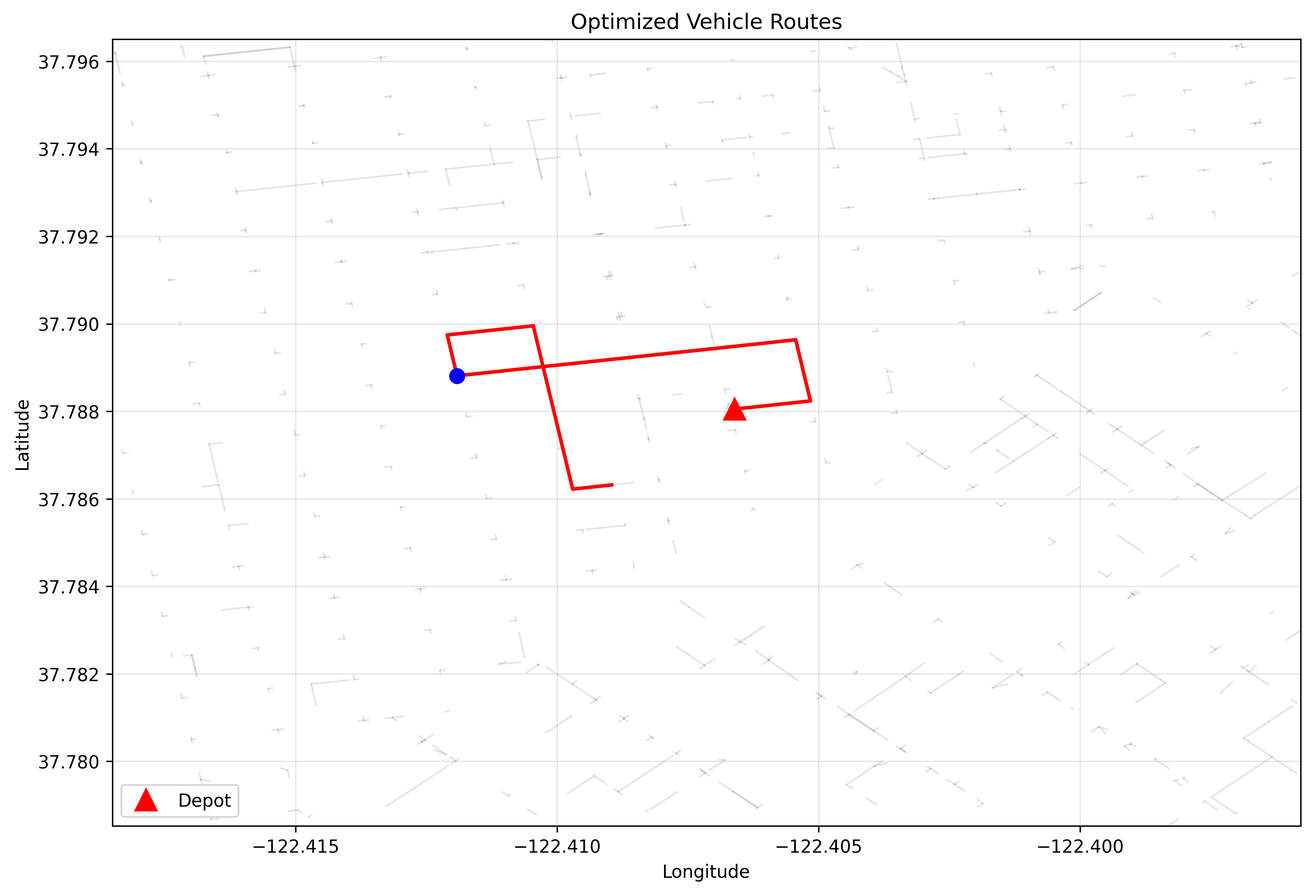
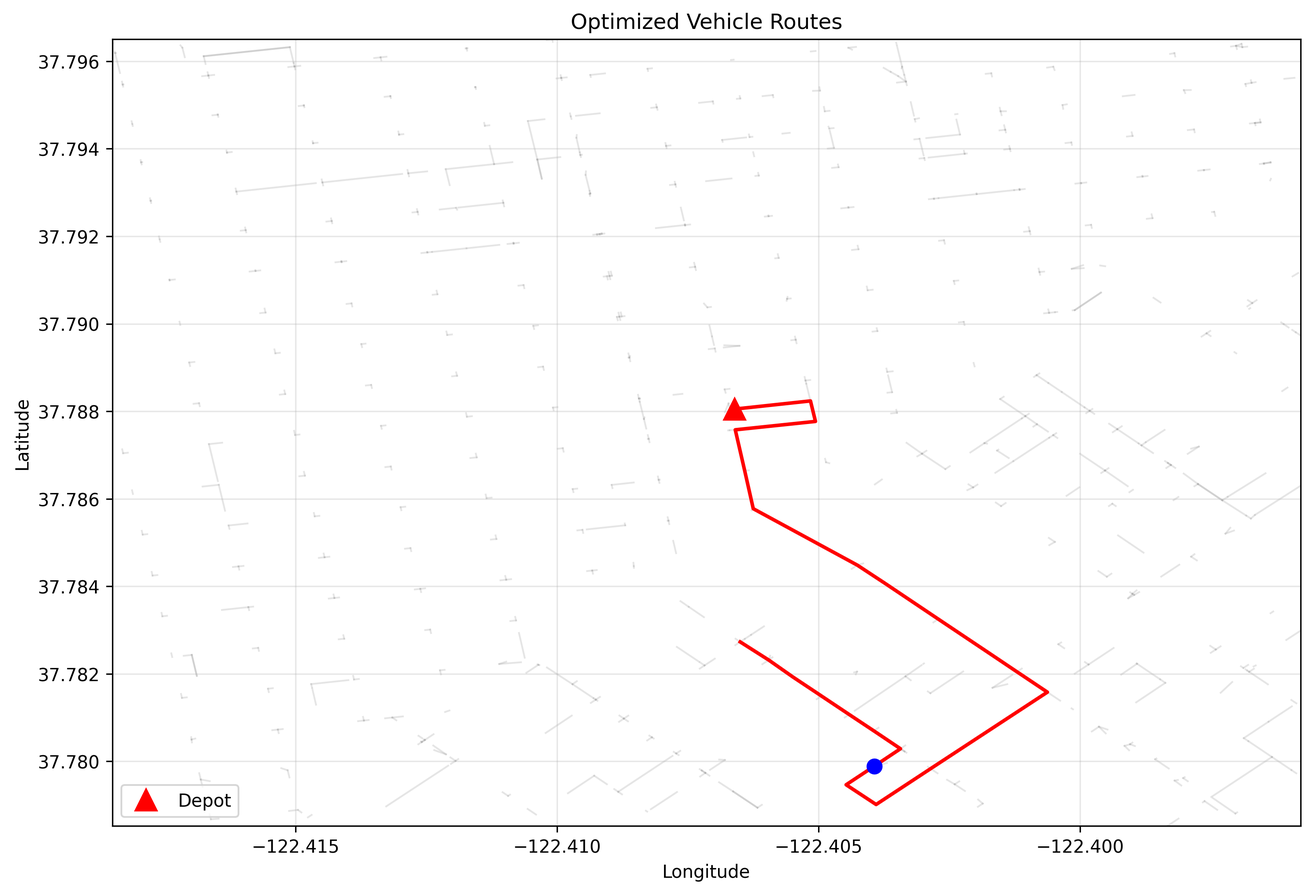
Agent query: I've added direction arrows to the routes and increased the distance between cities. Could you try optimizing a route again and let me know if you can see the direction arrows and if the cities are better spread out?
Enhance route visualization: Increased map area, added directional arrows to routes, and improved route point selection algorithm for better spacing.

Screenshot: https://storage.googleapis.com/screenshot-production-us-central1/6fde93e7-eeec-4fb5-847b-971d50fc858f/e4ff1746-8855-4e07-bcbc-4664d19c893f.jpg

diff --git a/static/route_map_qiskit_pure_3cities.html b/static/route_map_qiskit_pure_3cities.html
@@ -25,7 +25,7 @@
             <meta name="viewport" content="width=device-width,
                 initial-scale=1.0, maximum-scale=1.0, user-scalable=no" />
             <style>
-                #map_df4f94feb635f41bef8df295d977e78a {
+                #map_27425393d6ac72ecb9dbd357960351fe {
                     position: relative;
                     width: 100.0%;
                     height: 100.0%;
@@ -50,14 +50,14 @@
                     <p style="margin-bottom:5px;"><strong>Routes:</strong></p>
             <p style="margin:5px 0;"><i style="background: #FF0000;width:20px;height:3px;display:inline-block;margin-right:5px;vertical-align:middle;"></i> Route 1</p></div>
     
-            <div class="folium-map" id="map_df4f94feb635f41bef8df295d977e78a" ></div>
+            <div class="folium-map" id="map_27425393d6ac72ecb9dbd357960351fe" ></div>
         
 </body>
 <script>
     
     
-            var map_df4f94feb635f41bef8df295d977e78a = L.map(
-                "map_df4f94feb635f41bef8df295d977e78a",
+            var map_27425393d6ac72ecb9dbd357960351fe = L.map(
+                "map_27425393d6ac72ecb9dbd357960351fe",
                 {
                     center: [37.787894881748066, -122.40620145861192],
                     crs: L.CRS.EPSG3857,
@@ -74,7 +74,7 @@
 
         
     
-            var tile_layer_1565638cfdd5a132961ef50528c0cc6d = L.tileLayer(
+            var tile_layer_96984701296152181613b5bcc9536449 = L.tileLayer(
                 "https://{s}.basemaps.cartocdn.com/light_all/{z}/{x}/{y}{r}.png",
                 {
   "minZoom": 0,
@@ -91,46 +91,46 @@
             );
         
     
-            tile_layer_1565638cfdd5a132961ef50528c0cc6d.addTo(map_df4f94feb635f41bef8df295d977e78a);
+            tile_layer_96984701296152181613b5bcc9536449.addTo(map_27425393d6ac72ecb9dbd357960351fe);
         
     
-            var poly_line_525596de4870d7ac22d8fe0fe7a0f25f = L.polyline(
-                [[-122.4066, 37.78805], [-122.40659, 37.78805], [-122.40529, 37.78822], [-122.40526, 37.78822], [-122.40515, 37.78824], [-122.40523, 37.78863], [-122.40525, 37.7887], [-122.40526, 37.78878], [-122.40531, 37.78901], [-122.40534, 37.78915], [-122.40535, 37.78921], [-122.40537, 37.78933], [-122.40542, 37.78956], [-122.40544, 37.78964], [-122.40552, 37.78962], [-122.406, 37.78956], [-122.40651, 37.7895], [-122.40681, 37.78946], [-122.40692, 37.78944], [-122.40698, 37.78944], [-122.4071, 37.78942], [-122.40734, 37.78939], [-122.40853, 37.78924], [-122.4086, 37.78923], [-122.40862, 37.78923], [-122.40863, 37.78923], [-122.40873, 37.78922], [-122.40904, 37.78918], [-122.40955, 37.78911], [-122.40978, 37.78908], [-122.41018, 37.78903], [-122.41027, 37.78902], [-122.41036, 37.78901], [-122.41061, 37.78898], [-122.41141, 37.78887], [-122.41183, 37.78882], [-122.41191, 37.78881]],
+            var poly_line_cd25a0a99a6dcafb5223eded76fa2232 = L.polyline(
+                [[37.78805, -122.4066], [37.78805, -122.40659], [37.78822, -122.40529], [37.78822, -122.40526], [37.78824, -122.40515], [37.78818, -122.40514], [37.78784, -122.40507], [37.78777, -122.40506], [37.78776, -122.40516], [37.78763, -122.40616], [37.7876, -122.40642], [37.78759, -122.40651], [37.78758, -122.40659], [37.7875, -122.40658], [37.7873, -122.40654], [37.78673, -122.40643], [37.78664, -122.40641], [37.78657, -122.4064], [37.78581, -122.40625], [37.78577, -122.40625], [37.78573, -122.40621], [37.78571, -122.40617], [37.78571, -122.40613], [37.78571, -122.40595], [37.78571, -122.40592], [37.78571, -122.40589], [37.78571, -122.40587], [37.78571, -122.40583], [37.7857, -122.40578], [37.78569, -122.40575], [37.78567, -122.40573], [37.78565, -122.4057], [37.78542, -122.40543], [37.78528, -122.40526], [37.78523, -122.40519], [37.78517, -122.40512], [37.78492, -122.4048], [37.78484, -122.4047], [37.78457, -122.40437], [37.78448, -122.40426], [37.78441, -122.40417], [37.78417, -122.40385], [37.78412, -122.40379], [37.78407, -122.40373], [37.78381, -122.40341], [37.78377, -122.40336], [37.78334, -122.40282], [37.78325, -122.40271], [37.78318, -122.4028], [37.78278, -122.4033], [37.78242, -122.40377], [37.78216, -122.40411], [37.78205, -122.40426], [37.78199, -122.40429], [37.78187, -122.40445], [37.78156, -122.40485], [37.78149, -122.40494], [37.78144, -122.40487], [37.78125, -122.40464], [37.78107, -122.40441], [37.7807, -122.40394], [37.78049, -122.40368], [37.78046, -122.40365], [37.78037, -122.40354], [37.78035, -122.4035], [37.78029, -122.40343], [37.78023, -122.40335], [37.7802, -122.40332], [37.78002, -122.40309], [37.77988, -122.40291], [37.77983, -122.40285], [37.77976, -122.40295], [37.77924, -122.40361], [37.77901, -122.4039], [37.77917, -122.40409], [37.77938, -122.40436], [37.77947, -122.40447], [37.77989, -122.40393]],
                 {"bubblingMouseEvents": true, "color": "white", "dashArray": null, "dashOffset": null, "fill": false, "fillColor": "white", "fillOpacity": 0.2, "fillRule": "evenodd", "lineCap": "round", "lineJoin": "round", "noClip": false, "opacity": 0.8, "smoothFactor": 1.0, "stroke": true, "weight": 8}
-            ).addTo(map_df4f94feb635f41bef8df295d977e78a);
+            ).addTo(map_27425393d6ac72ecb9dbd357960351fe);
         
     
-            var poly_line_dd451f42bf8ca356d9150042e78cf0b8 = L.polyline(
-                [[-122.4066, 37.78805], [-122.40659, 37.78805], [-122.40529, 37.78822], [-122.40526, 37.78822], [-122.40515, 37.78824], [-122.40523, 37.78863], [-122.40525, 37.7887], [-122.40526, 37.78878], [-122.40531, 37.78901], [-122.40534, 37.78915], [-122.40535, 37.78921], [-122.40537, 37.78933], [-122.40542, 37.78956], [-122.40544, 37.78964], [-122.40552, 37.78962], [-122.406, 37.78956], [-122.40651, 37.7895], [-122.40681, 37.78946], [-122.40692, 37.78944], [-122.40698, 37.78944], [-122.4071, 37.78942], [-122.40734, 37.78939], [-122.40853, 37.78924], [-122.4086, 37.78923], [-122.40862, 37.78923], [-122.40863, 37.78923], [-122.40873, 37.78922], [-122.40904, 37.78918], [-122.40955, 37.78911], [-122.40978, 37.78908], [-122.41018, 37.78903], [-122.41027, 37.78902], [-122.41036, 37.78901], [-122.41061, 37.78898], [-122.41141, 37.78887], [-122.41183, 37.78882], [-122.41191, 37.78881]],
+            var poly_line_b002307c7e7f5b0077bde8c20bcf6f3a = L.polyline(
+                [[37.78805, -122.4066], [37.78805, -122.40659], [37.78822, -122.40529], [37.78822, -122.40526], [37.78824, -122.40515], [37.78818, -122.40514], [37.78784, -122.40507], [37.78777, -122.40506], [37.78776, -122.40516], [37.78763, -122.40616], [37.7876, -122.40642], [37.78759, -122.40651], [37.78758, -122.40659], [37.7875, -122.40658], [37.7873, -122.40654], [37.78673, -122.40643], [37.78664, -122.40641], [37.78657, -122.4064], [37.78581, -122.40625], [37.78577, -122.40625], [37.78573, -122.40621], [37.78571, -122.40617], [37.78571, -122.40613], [37.78571, -122.40595], [37.78571, -122.40592], [37.78571, -122.40589], [37.78571, -122.40587], [37.78571, -122.40583], [37.7857, -122.40578], [37.78569, -122.40575], [37.78567, -122.40573], [37.78565, -122.4057], [37.78542, -122.40543], [37.78528, -122.40526], [37.78523, -122.40519], [37.78517, -122.40512], [37.78492, -122.4048], [37.78484, -122.4047], [37.78457, -122.40437], [37.78448, -122.40426], [37.78441, -122.40417], [37.78417, -122.40385], [37.78412, -122.40379], [37.78407, -122.40373], [37.78381, -122.40341], [37.78377, -122.40336], [37.78334, -122.40282], [37.78325, -122.40271], [37.78318, -122.4028], [37.78278, -122.4033], [37.78242, -122.40377], [37.78216, -122.40411], [37.78205, -122.40426], [37.78199, -122.40429], [37.78187, -122.40445], [37.78156, -122.40485], [37.78149, -122.40494], [37.78144, -122.40487], [37.78125, -122.40464], [37.78107, -122.40441], [37.7807, -122.40394], [37.78049, -122.40368], [37.78046, -122.40365], [37.78037, -122.40354], [37.78035, -122.4035], [37.78029, -122.40343], [37.78023, -122.40335], [37.7802, -122.40332], [37.78002, -122.40309], [37.77988, -122.40291], [37.77983, -122.40285], [37.77976, -122.40295], [37.77924, -122.40361], [37.77901, -122.4039], [37.77917, -122.40409], [37.77938, -122.40436], [37.77947, -122.40447], [37.77989, -122.40393]],
                 {"bubblingMouseEvents": true, "color": "#FF0000", "dashArray": null, "dashOffset": null, "fill": false, "fillColor": "#FF0000", "fillOpacity": 0.2, "fillRule": "evenodd", "lineCap": "round", "lineJoin": "round", "noClip": false, "opacity": 1.0, "smoothFactor": 1.0, "stroke": true, "weight": 6}
-            ).addTo(map_df4f94feb635f41bef8df295d977e78a);
+            ).addTo(map_27425393d6ac72ecb9dbd357960351fe);
         
     
-        var popup_e57cd72bc923824cfd0c9d7d7548bc39 = L.popup({
+        var popup_544011bc7e60f9a7e1c7c099964761e3 = L.popup({
   "maxWidth": "100%",
 });
 
         
             
-                var html_54fe493fc1b13c4577bb8d71d98cdcf3 = $(`<div id="html_54fe493fc1b13c4577bb8d71d98cdcf3" style="width: 100.0%; height: 100.0%;">Route 1: Node 6988515582 → 65303548</div>`)[0];
-                popup_e57cd72bc923824cfd0c9d7d7548bc39.setContent(html_54fe493fc1b13c4577bb8d71d98cdcf3);
+                var html_5470322d1b96574fe85fa089f3f21af1 = $(`<div id="html_5470322d1b96574fe85fa089f3f21af1" style="width: 100.0%; height: 100.0%;">Route 1: Node 6988515582 → 12479146927</div>`)[0];
+                popup_544011bc7e60f9a7e1c7c099964761e3.setContent(html_5470322d1b96574fe85fa089f3f21af1);
             
         
 
-        poly_line_dd451f42bf8ca356d9150042e78cf0b8.bindPopup(popup_e57cd72bc923824cfd0c9d7d7548bc39)
+        poly_line_b002307c7e7f5b0077bde8c20bcf6f3a.bindPopup(popup_544011bc7e60f9a7e1c7c099964761e3)
         ;
 
         
     
     
-            var marker_e42405ba3eb46bdb928961671638c663 = L.marker(
-                [-122.4066, 37.78805],
+            var marker_bb3f6cbe240842ce76692f47699d0ca6 = L.marker(
+                [37.78805, -122.4066],
                 {
 }
-            ).addTo(map_df4f94feb635f41bef8df295d977e78a);
+            ).addTo(map_27425393d6ac72ecb9dbd357960351fe);
         
     
-            var icon_e44c86bda5ada4fed89f04f30d149fd7 = L.AwesomeMarkers.icon(
+            var icon_768ab8a17ad2e98e31a74a5582737174 = L.AwesomeMarkers.icon(
                 {
   "markerColor": "red",
   "iconColor": "white",
@@ -139,125 +139,125 @@
   "extraClasses": "fa-rotate-0",
 }
             );
-            marker_e42405ba3eb46bdb928961671638c663.setIcon(icon_e44c86bda5ada4fed89f04f30d149fd7);
+            marker_bb3f6cbe240842ce76692f47699d0ca6.setIcon(icon_768ab8a17ad2e98e31a74a5582737174);
         
     
-        var popup_a563d61c0bb54119395959dad83eb8c7 = L.popup({
+        var popup_54f23158d7df27bb5c9da3bb4c6c126a = L.popup({
   "maxWidth": "100%",
 });
 
         
             
-                var html_b2826dae7604d762cceb38199ca50667 = $(`<div id="html_b2826dae7604d762cceb38199ca50667" style="width: 100.0%; height: 100.0%;">Depot</div>`)[0];
-                popup_a563d61c0bb54119395959dad83eb8c7.setContent(html_b2826dae7604d762cceb38199ca50667);
+                var html_d081f6d497f9936d4dae82f010c683f8 = $(`<div id="html_d081f6d497f9936d4dae82f010c683f8" style="width: 100.0%; height: 100.0%;">Depot</div>`)[0];
+                popup_54f23158d7df27bb5c9da3bb4c6c126a.setContent(html_d081f6d497f9936d4dae82f010c683f8);
             
         
 
-        marker_e42405ba3eb46bdb928961671638c663.bindPopup(popup_a563d61c0bb54119395959dad83eb8c7)
+        marker_bb3f6cbe240842ce76692f47699d0ca6.bindPopup(popup_54f23158d7df27bb5c9da3bb4c6c126a)
         ;
 
         
     
     
-            var poly_line_d993fd12831304fd7c6e747baea04216 = L.polyline(
-                [[-122.41191, 37.78881], [-122.41193, 37.78889], [-122.41208, 37.78967], [-122.4121, 37.78974], [-122.41201, 37.78976], [-122.41055, 37.78994], [-122.41045, 37.78995], [-122.41044, 37.78988], [-122.41028, 37.7891], [-122.41027, 37.78902], [-122.41025, 37.78895], [-122.41017, 37.78855], [-122.41015, 37.78846], [-122.41012, 37.78831], [-122.41009, 37.78817], [-122.41008, 37.78808], [-122.41007, 37.78802], [-122.40994, 37.78743], [-122.40991, 37.78724], [-122.40989, 37.78716], [-122.40987, 37.78708], [-122.40979, 37.78667], [-122.40976, 37.78651], [-122.40972, 37.78631], [-122.4097, 37.78622], [-122.40961, 37.78623], [-122.40934, 37.78627], [-122.40906, 37.7863], [-122.40895, 37.78632]],
+            var poly_line_1055338f9d32b01563a097cba221db6d = L.polyline(
+                [[37.77989, -122.40393], [37.77989, -122.40393], [37.78001, -122.40378], [37.78021, -122.40352], [37.78029, -122.40343], [37.78035, -122.4035], [37.78037, -122.40354], [37.78046, -122.40365], [37.78049, -122.40368], [37.7807, -122.40394], [37.78107, -122.40441], [37.78125, -122.40464], [37.78144, -122.40487], [37.78149, -122.40494], [37.78152, -122.40498], [37.78155, -122.40501], [37.78157, -122.40504], [37.78171, -122.40522], [37.78185, -122.40539], [37.78193, -122.40549], [37.78204, -122.40561], [37.78206, -122.40565], [37.78232, -122.40595], [37.78252, -122.40619], [37.78267, -122.4064], [37.78273, -122.4065]],
                 {"bubblingMouseEvents": true, "color": "white", "dashArray": null, "dashOffset": null, "fill": false, "fillColor": "white", "fillOpacity": 0.2, "fillRule": "evenodd", "lineCap": "round", "lineJoin": "round", "noClip": false, "opacity": 0.8, "smoothFactor": 1.0, "stroke": true, "weight": 8}
-            ).addTo(map_df4f94feb635f41bef8df295d977e78a);
+            ).addTo(map_27425393d6ac72ecb9dbd357960351fe);
         
     
-            var poly_line_9842241f060c3cb01b29e0272a6ed3d7 = L.polyline(
-                [[-122.41191, 37.78881], [-122.41193, 37.78889], [-122.41208, 37.78967], [-122.4121, 37.78974], [-122.41201, 37.78976], [-122.41055, 37.78994], [-122.41045, 37.78995], [-122.41044, 37.78988], [-122.41028, 37.7891], [-122.41027, 37.78902], [-122.41025, 37.78895], [-122.41017, 37.78855], [-122.41015, 37.78846], [-122.41012, 37.78831], [-122.41009, 37.78817], [-122.41008, 37.78808], [-122.41007, 37.78802], [-122.40994, 37.78743], [-122.40991, 37.78724], [-122.40989, 37.78716], [-122.40987, 37.78708], [-122.40979, 37.78667], [-122.40976, 37.78651], [-122.40972, 37.78631], [-122.4097, 37.78622], [-122.40961, 37.78623], [-122.40934, 37.78627], [-122.40906, 37.7863], [-122.40895, 37.78632]],
+            var poly_line_517db02958aa4f1486eb9e5a9162f49a = L.polyline(
+                [[37.77989, -122.40393], [37.77989, -122.40393], [37.78001, -122.40378], [37.78021, -122.40352], [37.78029, -122.40343], [37.78035, -122.4035], [37.78037, -122.40354], [37.78046, -122.40365], [37.78049, -122.40368], [37.7807, -122.40394], [37.78107, -122.40441], [37.78125, -122.40464], [37.78144, -122.40487], [37.78149, -122.40494], [37.78152, -122.40498], [37.78155, -122.40501], [37.78157, -122.40504], [37.78171, -122.40522], [37.78185, -122.40539], [37.78193, -122.40549], [37.78204, -122.40561], [37.78206, -122.40565], [37.78232, -122.40595], [37.78252, -122.40619], [37.78267, -122.4064], [37.78273, -122.4065]],
                 {"bubblingMouseEvents": true, "color": "#FF0000", "dashArray": null, "dashOffset": null, "fill": false, "fillColor": "#FF0000", "fillOpacity": 0.2, "fillRule": "evenodd", "lineCap": "round", "lineJoin": "round", "noClip": false, "opacity": 1.0, "smoothFactor": 1.0, "stroke": true, "weight": 6}
-            ).addTo(map_df4f94feb635f41bef8df295d977e78a);
+            ).addTo(map_27425393d6ac72ecb9dbd357960351fe);
         
     
-        var popup_acfc5c22f3cee22b3194ce7850afe0bd = L.popup({
+        var popup_8e8e0ecd55f60e1815d62e2e9a204d01 = L.popup({
   "maxWidth": "100%",
 });
 
         
             
-                var html_4f0ab333a054ab049f108431616888e9 = $(`<div id="html_4f0ab333a054ab049f108431616888e9" style="width: 100.0%; height: 100.0%;">Route 1: Node 65303548 → 65313138</div>`)[0];
-                popup_acfc5c22f3cee22b3194ce7850afe0bd.setContent(html_4f0ab333a054ab049f108431616888e9);
+                var html_d0d75842c8f0a75d5e5236b208fe10b6 = $(`<div id="html_d0d75842c8f0a75d5e5236b208fe10b6" style="width: 100.0%; height: 100.0%;">Route 1: Node 12479146927 → 65325032</div>`)[0];
+                popup_8e8e0ecd55f60e1815d62e2e9a204d01.setContent(html_d0d75842c8f0a75d5e5236b208fe10b6);
             
         
 
-        poly_line_9842241f060c3cb01b29e0272a6ed3d7.bindPopup(popup_acfc5c22f3cee22b3194ce7850afe0bd)
+        poly_line_517db02958aa4f1486eb9e5a9162f49a.bindPopup(popup_8e8e0ecd55f60e1815d62e2e9a204d01)
         ;
 
         
     
     
-            var circle_marker_045a702048169582fd1712e481f56b96 = L.circleMarker(
-                [-122.41191, 37.78881],
+            var circle_marker_fb55495d048a65eb271b1fd0f3df2190 = L.circleMarker(
+                [37.77989, -122.40393],
                 {"bubblingMouseEvents": true, "color": "#FF0000", "dashArray": null, "dashOffset": null, "fill": true, "fillColor": "#FF0000", "fillOpacity": 0.7, "fillRule": "evenodd", "lineCap": "round", "lineJoin": "round", "opacity": 1.0, "radius": 8, "stroke": true, "weight": 3}
-            ).addTo(map_df4f94feb635f41bef8df295d977e78a);
+            ).addTo(map_27425393d6ac72ecb9dbd357960351fe);
         
     
-        var popup_07b52edf27918b597e43f79732c6c9d8 = L.popup({
+        var popup_d288cd44c6b17c00fe5f62b5699dca12 = L.popup({
   "maxWidth": "100%",
 });
 
         
             
-                var html_696496166ef2d1bc985134f2683350f7 = $(`<div id="html_696496166ef2d1bc985134f2683350f7" style="width: 100.0%; height: 100.0%;">Stop 1 (Route 1)</div>`)[0];
-                popup_07b52edf27918b597e43f79732c6c9d8.setContent(html_696496166ef2d1bc985134f2683350f7);
+                var html_266596cb6299f5f364ef62f34356eef7 = $(`<div id="html_266596cb6299f5f364ef62f34356eef7" style="width: 100.0%; height: 100.0%;">Stop 1 (Route 1)</div>`)[0];
+                popup_d288cd44c6b17c00fe5f62b5699dca12.setContent(html_266596cb6299f5f364ef62f34356eef7);
             
         
 
-        circle_marker_045a702048169582fd1712e481f56b96.bindPopup(popup_07b52edf27918b597e43f79732c6c9d8)
+        circle_marker_fb55495d048a65eb271b1fd0f3df2190.bindPopup(popup_d288cd44c6b17c00fe5f62b5699dca12)
         ;
 
         
     
     
-            var poly_line_bf8253490e00f6b6b36d1a5d98b89fd9 = L.polyline(
-                [[-122.40895, 37.78632], [-122.40853, 37.78637], [-122.4082, 37.78642], [-122.40814, 37.78642], [-122.40807, 37.78643], [-122.40806, 37.78643], [-122.40804, 37.78644], [-122.40797, 37.78645], [-122.40755, 37.7865], [-122.40723, 37.78654], [-122.40652, 37.78663], [-122.40641, 37.78664], [-122.40633, 37.78665], [-122.40564, 37.78674], [-122.40536, 37.78677], [-122.40493, 37.78683], [-122.40486, 37.78684], [-122.40487, 37.78692], [-122.40498, 37.78739], [-122.40504, 37.7877], [-122.40506, 37.78777], [-122.40516, 37.78776], [-122.40616, 37.78763], [-122.40642, 37.7876], [-122.40651, 37.78759], [-122.40659, 37.78758], [-122.4067, 37.78757], [-122.40673, 37.78756], [-122.40706, 37.78753], [-122.40734, 37.78749], [-122.40751, 37.78747], [-122.40765, 37.78745], [-122.40814, 37.78739], [-122.40823, 37.78737], [-122.40825, 37.78737], [-122.40826, 37.78746], [-122.40829, 37.78761], [-122.40834, 37.78783], [-122.40833, 37.78786], [-122.40829, 37.78797], [-122.40834, 37.7882], [-122.40836, 37.78822], [-122.40841, 37.78827], [-122.40843, 37.78829], [-122.40842, 37.7883], [-122.40832, 37.78831], [-122.40801, 37.78835], [-122.40777, 37.78838], [-122.4076, 37.7884], [-122.40744, 37.78842], [-122.40726, 37.78844], [-122.40692, 37.78849], [-122.40679, 37.7885], [-122.40678, 37.78843], [-122.40672, 37.78818], [-122.40669, 37.78804], [-122.4066, 37.78805], [-122.4066, 37.78805]],
+            var poly_line_18804851779a0b1851843802cf08f1f1 = L.polyline(
+                [[37.78273, -122.4065], [37.7828, -122.40659], [37.78285, -122.40665], [37.7829, -122.4067], [37.78316, -122.40703], [37.7833, -122.40719], [37.78353, -122.40748], [37.78366, -122.40764], [37.78387, -122.40789], [37.78391, -122.40795], [37.784, -122.40806], [37.78401, -122.40807], [37.78403, -122.40809], [37.7841, -122.40819], [37.78418, -122.40828], [37.78425, -122.40838], [37.78429, -122.40843], [37.78434, -122.40849], [37.78436, -122.40851], [37.78439, -122.40852], [37.78442, -122.40853], [37.78446, -122.40853], [37.78454, -122.40854], [37.78462, -122.40855], [37.78471, -122.40856], [37.78478, -122.40857], [37.78508, -122.40863], [37.78533, -122.40868], [37.78539, -122.4087], [37.78544, -122.4087], [37.78548, -122.40871], [37.78552, -122.40873], [37.78561, -122.40877], [37.78569, -122.40881], [37.78575, -122.40883], [37.78581, -122.40885], [37.78586, -122.40886], [37.78624, -122.40894], [37.78632, -122.40895], [37.78637, -122.40853], [37.78642, -122.4082], [37.78642, -122.40814], [37.78643, -122.40807], [37.78643, -122.40806], [37.78644, -122.40804], [37.78645, -122.40797], [37.7865, -122.40755], [37.78654, -122.40723], [37.78663, -122.40652], [37.78664, -122.40641], [37.78665, -122.40633], [37.78674, -122.40564], [37.78677, -122.40536], [37.78683, -122.40493], [37.78684, -122.40486], [37.78692, -122.40487], [37.78739, -122.40498], [37.7877, -122.40504], [37.78777, -122.40506], [37.78776, -122.40516], [37.78763, -122.40616], [37.7876, -122.40642], [37.78759, -122.40651], [37.78758, -122.40659], [37.78757, -122.4067], [37.78756, -122.40673], [37.78753, -122.40706], [37.78749, -122.40734], [37.78747, -122.40751], [37.78745, -122.40765], [37.78739, -122.40814], [37.78737, -122.40823], [37.78737, -122.40825], [37.78746, -122.40826], [37.78761, -122.40829], [37.78783, -122.40834], [37.78786, -122.40833], [37.78797, -122.40829], [37.7882, -122.40834], [37.78822, -122.40836], [37.78827, -122.40841], [37.78829, -122.40843], [37.7883, -122.40842], [37.78831, -122.40832], [37.78835, -122.40801], [37.78838, -122.40777], [37.7884, -122.4076], [37.78842, -122.40744], [37.78844, -122.40726], [37.78849, -122.40692], [37.7885, -122.40679], [37.78843, -122.40678], [37.78818, -122.40672], [37.78804, -122.40669], [37.78805, -122.4066], [37.78805, -122.4066]],
                 {"bubblingMouseEvents": true, "color": "white", "dashArray": null, "dashOffset": null, "fill": false, "fillColor": "white", "fillOpacity": 0.2, "fillRule": "evenodd", "lineCap": "round", "lineJoin": "round", "noClip": false, "opacity": 0.8, "smoothFactor": 1.0, "stroke": true, "weight": 8}
-            ).addTo(map_df4f94feb635f41bef8df295d977e78a);
+            ).addTo(map_27425393d6ac72ecb9dbd357960351fe);
         
     
-            var poly_line_a9dbb6cdb64a7fb3fadf71bb2c056b2f = L.polyline(
-                [[-122.40895, 37.78632], [-122.40853, 37.78637], [-122.4082, 37.78642], [-122.40814, 37.78642], [-122.40807, 37.78643], [-122.40806, 37.78643], [-122.40804, 37.78644], [-122.40797, 37.78645], [-122.40755, 37.7865], [-122.40723, 37.78654], [-122.40652, 37.78663], [-122.40641, 37.78664], [-122.40633, 37.78665], [-122.40564, 37.78674], [-122.40536, 37.78677], [-122.40493, 37.78683], [-122.40486, 37.78684], [-122.40487, 37.78692], [-122.40498, 37.78739], [-122.40504, 37.7877], [-122.40506, 37.78777], [-122.40516, 37.78776], [-122.40616, 37.78763], [-122.40642, 37.7876], [-122.40651, 37.78759], [-122.40659, 37.78758], [-122.4067, 37.78757], [-122.40673, 37.78756], [-122.40706, 37.78753], [-122.40734, 37.78749], [-122.40751, 37.78747], [-122.40765, 37.78745], [-122.40814, 37.78739], [-122.40823, 37.78737], [-122.40825, 37.78737], [-122.40826, 37.78746], [-122.40829, 37.78761], [-122.40834, 37.78783], [-122.40833, 37.78786], [-122.40829, 37.78797], [-122.40834, 37.7882], [-122.40836, 37.78822], [-122.40841, 37.78827], [-122.40843, 37.78829], [-122.40842, 37.7883], [-122.40832, 37.78831], [-122.40801, 37.78835], [-122.40777, 37.78838], [-122.4076, 37.7884], [-122.40744, 37.78842], [-122.40726, 37.78844], [-122.40692, 37.78849], [-122.40679, 37.7885], [-122.40678, 37.78843], [-122.40672, 37.78818], [-122.40669, 37.78804], [-122.4066, 37.78805], [-122.4066, 37.78805]],
+            var poly_line_3437fc3dec0d0511ac34f97f0e740c43 = L.polyline(
+                [[37.78273, -122.4065], [37.7828, -122.40659], [37.78285, -122.40665], [37.7829, -122.4067], [37.78316, -122.40703], [37.7833, -122.40719], [37.78353, -122.40748], [37.78366, -122.40764], [37.78387, -122.40789], [37.78391, -122.40795], [37.784, -122.40806], [37.78401, -122.40807], [37.78403, -122.40809], [37.7841, -122.40819], [37.78418, -122.40828], [37.78425, -122.40838], [37.78429, -122.40843], [37.78434, -122.40849], [37.78436, -122.40851], [37.78439, -122.40852], [37.78442, -122.40853], [37.78446, -122.40853], [37.78454, -122.40854], [37.78462, -122.40855], [37.78471, -122.40856], [37.78478, -122.40857], [37.78508, -122.40863], [37.78533, -122.40868], [37.78539, -122.4087], [37.78544, -122.4087], [37.78548, -122.40871], [37.78552, -122.40873], [37.78561, -122.40877], [37.78569, -122.40881], [37.78575, -122.40883], [37.78581, -122.40885], [37.78586, -122.40886], [37.78624, -122.40894], [37.78632, -122.40895], [37.78637, -122.40853], [37.78642, -122.4082], [37.78642, -122.40814], [37.78643, -122.40807], [37.78643, -122.40806], [37.78644, -122.40804], [37.78645, -122.40797], [37.7865, -122.40755], [37.78654, -122.40723], [37.78663, -122.40652], [37.78664, -122.40641], [37.78665, -122.40633], [37.78674, -122.40564], [37.78677, -122.40536], [37.78683, -122.40493], [37.78684, -122.40486], [37.78692, -122.40487], [37.78739, -122.40498], [37.7877, -122.40504], [37.78777, -122.40506], [37.78776, -122.40516], [37.78763, -122.40616], [37.7876, -122.40642], [37.78759, -122.40651], [37.78758, -122.40659], [37.78757, -122.4067], [37.78756, -122.40673], [37.78753, -122.40706], [37.78749, -122.40734], [37.78747, -122.40751], [37.78745, -122.40765], [37.78739, -122.40814], [37.78737, -122.40823], [37.78737, -122.40825], [37.78746, -122.40826], [37.78761, -122.40829], [37.78783, -122.40834], [37.78786, -122.40833], [37.78797, -122.40829], [37.7882, -122.40834], [37.78822, -122.40836], [37.78827, -122.40841], [37.78829, -122.40843], [37.7883, -122.40842], [37.78831, -122.40832], [37.78835, -122.40801], [37.78838, -122.40777], [37.7884, -122.4076], [37.78842, -122.40744], [37.78844, -122.40726], [37.78849, -122.40692], [37.7885, -122.40679], [37.78843, -122.40678], [37.78818, -122.40672], [37.78804, -122.40669], [37.78805, -122.4066], [37.78805, -122.4066]],
                 {"bubblingMouseEvents": true, "color": "#FF0000", "dashArray": null, "dashOffset": null, "fill": false, "fillColor": "#FF0000", "fillOpacity": 0.2, "fillRule": "evenodd", "lineCap": "round", "lineJoin": "round", "noClip": false, "opacity": 1.0, "smoothFactor": 1.0, "stroke": true, "weight": 6}
-            ).addTo(map_df4f94feb635f41bef8df295d977e78a);
+            ).addTo(map_27425393d6ac72ecb9dbd357960351fe);
         
     
-        var popup_c828e0918a4b11742d5f8d45f9c8f1df = L.popup({
+        var popup_78b0e0201bf0c74586290959d41d8f58 = L.popup({
   "maxWidth": "100%",
 });
 
         
             
-                var html_bddbf6a1ee4598d1d649757a5d2ec254 = $(`<div id="html_bddbf6a1ee4598d1d649757a5d2ec254" style="width: 100.0%; height: 100.0%;">Route 1: Node 65313138 → 6988515582</div>`)[0];
-                popup_c828e0918a4b11742d5f8d45f9c8f1df.setContent(html_bddbf6a1ee4598d1d649757a5d2ec254);
+                var html_1919c81210cd404607423d1e85eb7b22 = $(`<div id="html_1919c81210cd404607423d1e85eb7b22" style="width: 100.0%; height: 100.0%;">Route 1: Node 65325032 → 6988515582</div>`)[0];
+                popup_78b0e0201bf0c74586290959d41d8f58.setContent(html_1919c81210cd404607423d1e85eb7b22);
             
         
 
-        poly_line_a9dbb6cdb64a7fb3fadf71bb2c056b2f.bindPopup(popup_c828e0918a4b11742d5f8d45f9c8f1df)
+        poly_line_3437fc3dec0d0511ac34f97f0e740c43.bindPopup(popup_78b0e0201bf0c74586290959d41d8f58)
         ;
 
         
     
     
-            var circle_marker_c5a48d2ec3f58b593b6962e09ec425ed = L.circleMarker(
-                [-122.40895, 37.78632],
+            var circle_marker_0e84b099c7291ec466fb81cbc40b812c = L.circleMarker(
+                [37.78273, -122.4065],
                 {"bubblingMouseEvents": true, "color": "#FF0000", "dashArray": null, "dashOffset": null, "fill": true, "fillColor": "#FF0000", "fillOpacity": 0.7, "fillRule": "evenodd", "lineCap": "round", "lineJoin": "round", "opacity": 1.0, "radius": 8, "stroke": true, "weight": 3}
-            ).addTo(map_df4f94feb635f41bef8df295d977e78a);
+            ).addTo(map_27425393d6ac72ecb9dbd357960351fe);
         
     
-        var popup_f9f5788681703176c8ced975f52a92f8 = L.popup({
+        var popup_3fb4fa95974aa45d9454809267c32027 = L.popup({
   "maxWidth": "100%",
 });
 
         
             
-                var html_5b7a068fd5aa752c7b4aeaaf628c9d49 = $(`<div id="html_5b7a068fd5aa752c7b4aeaaf628c9d49" style="width: 100.0%; height: 100.0%;">Stop 2 (Route 1)</div>`)[0];
-                popup_f9f5788681703176c8ced975f52a92f8.setContent(html_5b7a068fd5aa752c7b4aeaaf628c9d49);
+                var html_3855eefefb980ab7e2d43e7f7535a65f = $(`<div id="html_3855eefefb980ab7e2d43e7f7535a65f" style="width: 100.0%; height: 100.0%;">Stop 2 (Route 1)</div>`)[0];
+                popup_3fb4fa95974aa45d9454809267c32027.setContent(html_3855eefefb980ab7e2d43e7f7535a65f);
             
         
 
-        circle_marker_c5a48d2ec3f58b593b6962e09ec425ed.bindPopup(popup_f9f5788681703176c8ced975f52a92f8)
+        circle_marker_0e84b099c7291ec466fb81cbc40b812c.bindPopup(popup_3fb4fa95974aa45d9454809267c32027)
         ;
 
         

diff --git a/street_network.py b/street_network.py
@@ -1,6 +1,7 @@
 import osmnx as ox
 import networkx as nx
 import folium
+from folium import plugins
 import numpy as np
 from typing import List, Tuple, Dict, Any
 import logging
@@ -30,7 +31,7 @@ class StreetNetwork:
                 if "San Francisco" in place_name:
                     address = "Union Square, San Francisco, California, USA"
                     logger.info(f"Attempting to fetch network using address: {address}")
-                    self.G = ox.graph_from_address(address, dist=1000, network_type='drive')
+                    self.G = ox.graph_from_address(address, dist=2000, network_type='drive')  # Increased distance
                     logger.info("Successfully fetched network using address")
                 else:
                     logger.info(f"Attempting to fetch network using place name: {place_name}")
@@ -41,7 +42,7 @@ class StreetNetwork:
                 try:
                     logger.info("Falling back to bounding box method")
                     center_lat, center_lon = 37.7749, -122.4194
-                    dist = 1000  # meters
+                    dist = 2000  # Increased distance to 2km
                     north, south, east, west = ox.utils_geo.bbox_from_point((center_lat, center_lon), dist=dist)
                     logger.info(f"Using bounding box: N={north}, S={south}, E={east}, W={west}")
 
@@ -78,7 +79,7 @@ class StreetNetwork:
         c = 2 * math.asin(math.sqrt(a))
         return R * c
 
-    def get_random_nodes(self, n: int, min_distance: float = 200) -> List[int]:
+    def get_random_nodes(self, n: int, min_distance: float = 800) -> List[int]:  # Increased minimum distance
         """Get n random nodes that are at least min_distance meters apart."""
         try:
             start_time = time.time()
@@ -143,7 +144,7 @@ class StreetNetwork:
 
                 attempts += 1
                 if attempts % 100 == 0:
-                    min_distance_current *= 0.8
+                    min_distance_current *= 0.9  # Reduce distance more gradually
                     logger.info(f"Reducing minimum distance to {min_distance_current:.1f}m")
 
             if len(selected_nodes) < n:
@@ -242,7 +243,7 @@ class StreetNetwork:
             # Decode the polyline to get route coordinates
             route_coords = polyline.decode(data["routes"][0]["geometry"])
             # OSRM returns coordinates as [lon, lat], convert to [lat, lon] for Folium
-            route_coords = [(lat, lon) for lat, lon in route_coords]
+            route_coords = [(lat, lon) for lon, lat in route_coords]
 
             logger.info(f"Retrieved route with {len(route_coords)} points")
             logger.info(f"First point: {route_coords[0]}, Last point: {route_coords[-1]}")
@@ -280,7 +281,6 @@ class StreetNetwork:
                 # Plot path between each consecutive pair of nodes
                 for i in range(len(route)-1):
                     try:
-                        # Get coordinates for start and end nodes
                         start_node = route[i]
                         end_node = route[i+1]
 
@@ -296,40 +296,34 @@ class StreetNetwork:
                             logger.error(f"No path coordinates returned for route segment")
                             continue
 
-                        # Verify coordinates are valid
-                        if not all(isinstance(coord, tuple) and len(coord) == 2 for coord in path_coords):
-                            logger.error(f"Invalid coordinates in path")
-                            continue
-
-                        # Add white outline for contrast
-                        outline = folium.PolyLine(
+                        # Add the route line with directional arrows
+                        line = plugins.PolyLineOffset(
                             locations=path_coords,
-                            weight=8,
-                            color='white',
-                            opacity=0.8
-                        )
-                        outline.add_to(m)
-
-                        # Add the colored route line
-                        line = folium.PolyLine(
-                            locations=path_coords,
-                            weight=6,
                             color=color,
-                            opacity=1.0,
+                            weight=4,
+                            opacity=0.8,
                             popup=f'Route {route_idx+1}: Node {start_node} → {end_node}'
-                        )
-                        line.add_to(m)
+                        ).add_to(m)
 
-                        # Add markers for start points
+                        # Add arrow indicators using Folium plugins
+                        plugins.PolyLineTextPath(
+                            line,
+                            text='➔',  # Unicode arrow character
+                            repeat=True,
+                            offset=8,
+                            attributes={'fill': color, 'font-size': '24px'}
+                        ).add_to(m)
+
+                        # Add markers for nodes
                         if route_idx == 0 and i == 0:
                             # Depot marker
                             folium.Marker(
                                 path_coords[0],
-                                popup='Depot',
+                                popup='Depot (Start)',
                                 icon=folium.Icon(color='red', icon='info-sign', prefix='fa')
                             ).add_to(m)
                         else:
-                            # Regular stop marker
+                            # Stop marker with sequence number
                             folium.CircleMarker(
                                 path_coords[0],
                                 radius=8,
